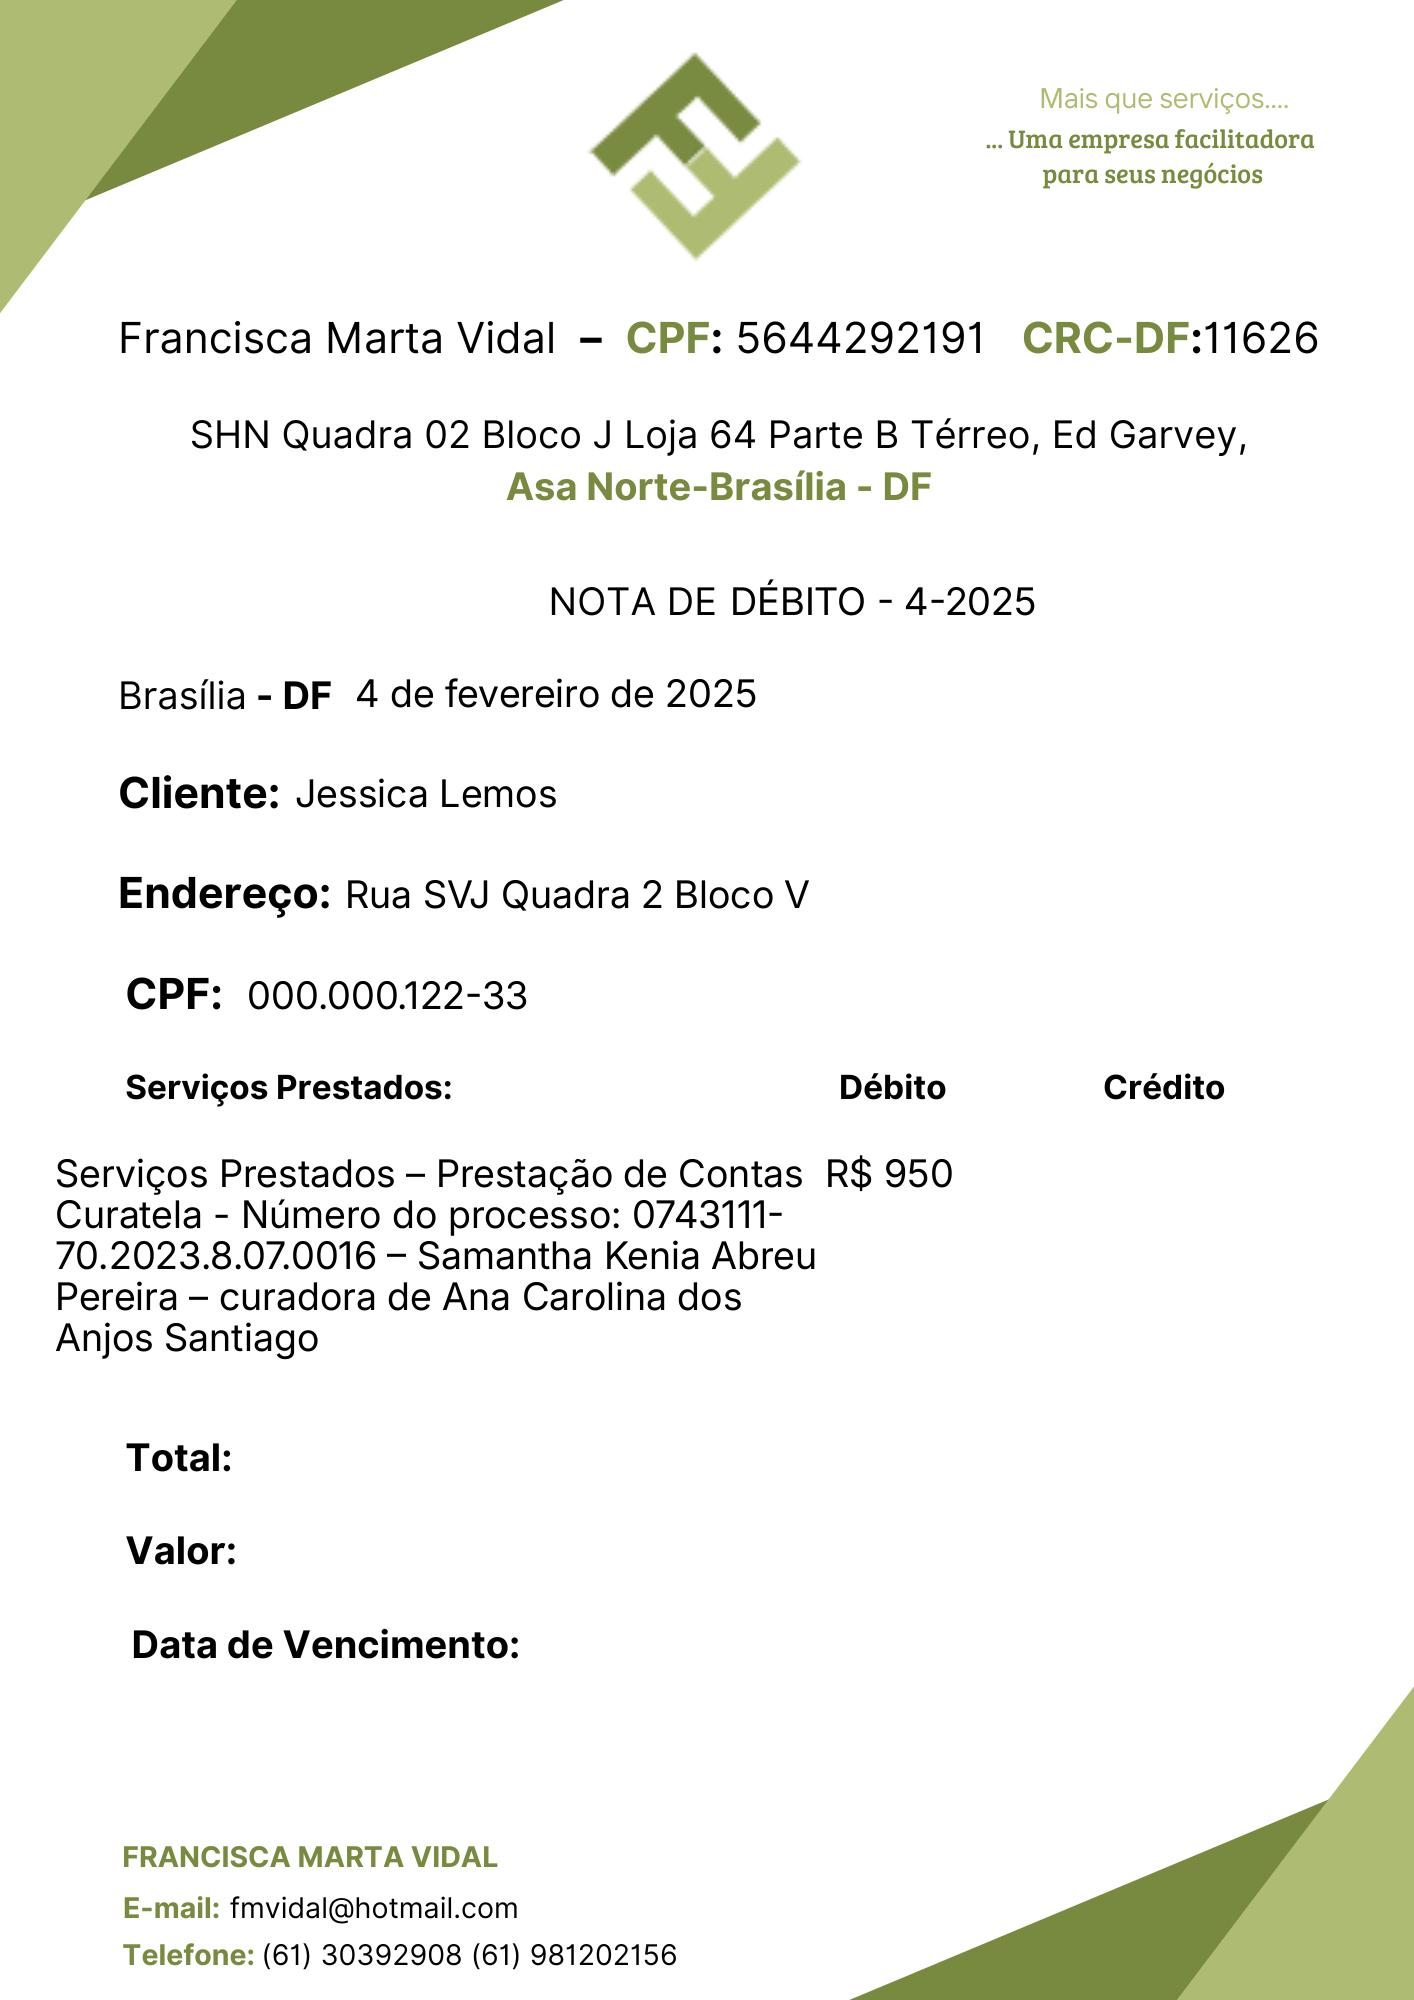
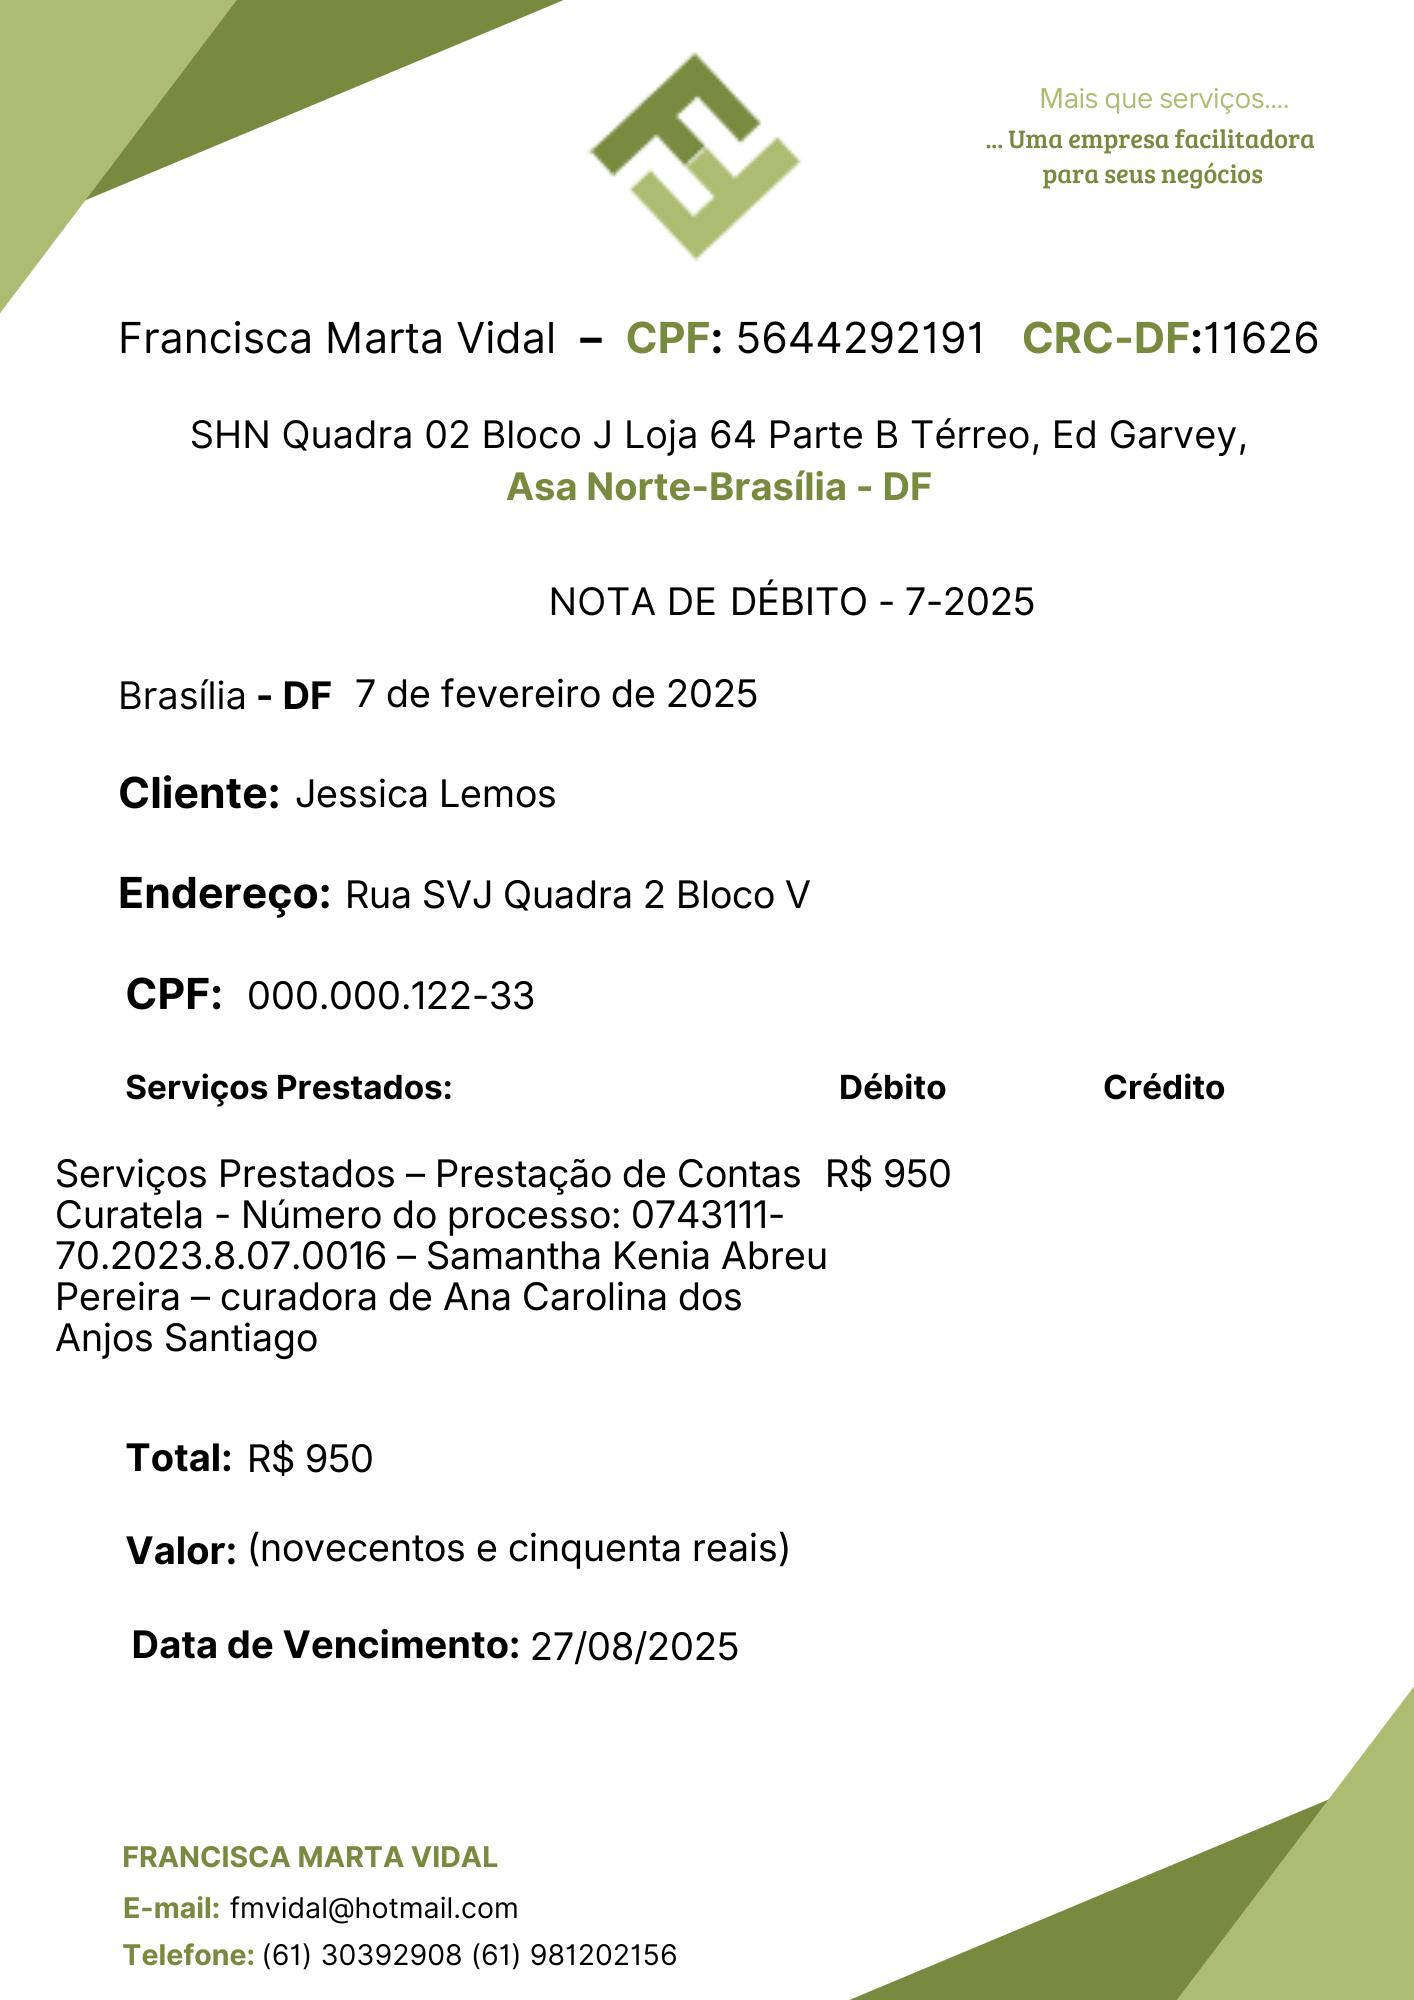
feat: add function of generate receive

diff --git a/gerador_fmv/app.py b/gerador_fmv/app.py
@@ -1,16 +1,87 @@
+import datetime
 import os
 import customtkinter as ctk
 from PIL import Image, ImageFont, ImageDraw
 
-os.environ['TK_USE_RENDERER'] = 'directwrite'
 
+
+##os.environ['TK_USE_RENDERER'] = 'directwrite'
+# Funcao Número por extenso
+def numero_por_extenso(n):
+    if n < 0 or n > 999999:
+        return "Número fora do intervalo suportado (0 a 999999)"
+
+    unidades = ["", "um", "dois", "três", "quatro", "cinco", "seis", "sete", "oito", "nove"]
+    especiais = ["dez", "onze", "doze", "treze", "quatorze", "quinze", "dezesseis", "dezessete", "dezoito", "dezenove"]
+    dezenas = ["", "dez", "vinte", "trinta", "quarenta", "cinquenta", "sessenta", "setenta", "oitenta", "noventa"]
+    centenas = ["", "cento", "duzentos", "trezentos", "quatrocentos", "quinhentos", "seiscentos", "setecentos",
+                "oitocentos", "novecentos"]
+
+    def converter_ate_999(num):
+        if num == 100:
+            return "cem"
+        elif num == 0:
+            return "zero"
+
+        partes = []
+        c, d, u = num // 100, (num % 100) // 10, num % 10
+
+        if c > 0:
+            partes.append(centenas[c])
+
+        if d == 1:  # Caso especial de 10 a 19
+            partes.append(especiais[u])
+        else:
+            if d > 0:
+                partes.append(dezenas[d])
+            if u > 0:
+                partes.append(unidades[u])
+
+        return " e ".join([p for p in partes if p])  # Remove vazios e adiciona "e" onde necessário
+
+    if n == 0:
+        return "zero"
+
+    partes_final = []
+
+    milhar, resto = divmod(n, 1000)
+
+    if milhar > 0:
+        if milhar == 1:
+            partes_final.append("mil")
+        else:
+            partes_final.append(converter_ate_999(milhar) + " mil")
+
+    if resto > 0:
+        if milhar > 0 and resto < 100:  # Adiciona "e" entre milhares e unidades/dezenas
+            partes_final.append("e")
+        partes_final.append(converter_ate_999(resto))
+
+    return " ".join(partes_final)
 # Array Campos Imutáveis
 campos = ['Nome Cliente:', 'CPF Cliente:', 'Endereço:', 'Tipo de Serviço:', 'Débito', 'Crédito', 'Data:', 'Data Vencimento:', 'CEP:']
 campo_width = 275
 campos_height = 35
 button_width = 290
 button_height = 50
-
+campos_pil = {
+    "nota":(730,578),
+    "nome":(295,770),
+    "endereco":(345,871),
+    "cpf":(247,972),
+    "tipo_servico":(55,1150),
+    "valor_debito":(825,1150),
+    "valor_credito":(1110,1150),
+    "total":(247,1435),
+    "valor_extenso":(247,1524),
+    "data_vencimento":(530,1623),
+    "data_hoje":(355,670),
+}
+meses = {
+    1: "janeiro", 2: "fevereiro", 3: "março", 4: "abril",
+    5: "maio", 6: "junho", 7: "julho", 8: "agosto",
+    9: "setembro", 10: "outubro", 11: "novembro", 12: "dezembro"
+}
 # Configurando Aparência:
 ctk.set_appearance_mode('dark')
 border_color = '#7E7E7E'
@@ -19,7 +90,7 @@ fg_color = '#535353'
 # Criar a janela Principal
 app = ctk.CTk()
 app.title('Gerador de Nota Física')
-#app.iconbitmap(bitmap=os.path.abspath('assets/imgs/png/logo.ico'))
+app.iconbitmap(bitmap='/Users/rdgr777/rdPersonal/gerador_fmv/assets/imgs/png/logo.ico')
 app.geometry('450x825+750+105')
 
 # Criar um Frame com bordas arredondadas (já que a janela não tem suporte direto para corner_radius)
@@ -28,16 +99,41 @@ frame_principal.pack_propagate(False)  # Impede que o tamanho do frame se ajuste
 frame_principal.pack()
 
 # Carregar a imagem usando Pillow
-#logo_image = Image.open("assets/imgs/png/Logo.png")
+logo_image = Image.open("/Users/rdgr777/rdPersonal/gerador_fmv/assets/imgs/png/Logo.png")
 # Criar a imagem CustomTkinter com a imagem carregada
-#logo_progama = ctk.CTkImage(light_image=logo_image, dark_image=logo_image, size=(300, 100))
-#label_logo = ctk.CTkLabel(frame_principal, image=logo_progama, text='')
-#label_logo.pack(pady=10)
+logo_progama = ctk.CTkImage(light_image=logo_image, dark_image=logo_image, size=(300, 100))
+label_logo = ctk.CTkLabel(frame_principal, image=logo_progama, text='')
+label_logo.pack(pady=10)
 
-font = ctk.CTkFont('SF Pro Display', size=16 , weight='normal')
-font_secondary = ctk.CTkFont('SF Pro Display', size=15 , weight='normal')
+font_path = 'assets/fonts/Inter_18pt-Regular.ttf'
+font_family = 'Inter'
+
+try:
+    font = ctk.CTkFont(font_family, size=16, weight='normal')
+    font_secondary = ctk.CTkFont(font_family, size=15, weight='normal')
+except:
+    font = ("Arial", 16)
+    font_secondary = ("Arial", 15)
+
 color_font = '#9ed22c'
-
+# Função para Emitir Recibo
+def criar_nota():
+    notaImg = Image.open(r"/Users/rdgr777/rdPersonal/gerador_fmv/assets/imgs/png/Nota FMV.png").convert("RGB")
+    draw = ImageDraw.Draw(notaImg)
+    # Formatando Datas
+    data_atual = datetime.datetime.now()
+    data_hoje = f"{data_atual.day} de {meses[data_atual.month]} de {data_atual.year}"
+    data_nota = f"{data_atual.day}-{data_atual.year}"
+    draw.text(campos_pil["data_hoje"], data_hoje, fill='black', font=font)
+    draw.text(campos_pil["nome"], input_nome.get(), fill='black', font=font)
+    draw.text((campos_pil["endereco"]), input_endereco.get(), fill='black', font=font)
+    draw.text(campos_pil["cpf"], input_cpf.get(), fill='black', font=font)
+    draw.text((campos_pil["tipo_servico"]), input_servico.get(), fill='black', font=font)
+    draw.text((campos_pil["valor_debito"]), combo_box_debito_credito.get(), fill='black', font=font)
+    draw.text(campos_pil["total"], valor_debito, fill='black', font=font)
+    draw.text(campos_pil["valor_extenso"], valor_extenso, fill='black', font=font)
+    draw.text(campos_pil["data_vencimento"], data_vencimento, fill='black', font=font)
+    notaImg.save(f"Nota : {nome}.jpg")
 # Função para formatar CPF
 def formatar_cpf(event):
     texto = input_cpf.get().replace(".", "").replace("-", "")
@@ -76,11 +172,9 @@ def formatar_data(event):
     elif len(texto) <= 8:
         input_data.delete(0, ctk.END)
         input_data.insert(0, f"{texto[:2]}/{texto[2:4]}/{texto[4:]}")
-
 # Campos
 label_nome = ctk.CTkLabel(frame_principal, corner_radius=8, width=campo_width, height=campos_height, text=campos[0], text_color=color_font, anchor='w', font=font)
 label_nome.pack()
-
 input_nome = ctk.CTkEntry(frame_principal, corner_radius=8, font=font_secondary, placeholder_text_color='#FFFFFF', fg_color=fg_color, border_color=border_color, border_width=2, width=campo_width, height=campos_height, placeholder_text='Insira o nome')
 input_nome.pack()
 
@@ -144,5 +238,6 @@ input_data_vencimento.pack()
 button_salvar = ctk.CTkButton(frame_principal, width=button_width, corner_radius=8, height=button_height, fg_color='transparent', text_color=color_font, text='Salvar', font=('SF Pro Display', 18), border_color=color_font, border_width=2, hover_color='#5d7528')
 button_salvar.pack(pady=25)
 
-
+app.update_idletasks()
+app.update()
 app.mainloop()

diff --git a/gerador_fmv/draw.py b/gerador_fmv/draw.py
@@ -1,11 +1,10 @@
 from PIL    import Image,ImageFont,ImageDraw
 import  datetime
-fontCorpo = ImageFont .truetype(r"/home/rdgr/rd-Personal/gerador_fmv/assets/fonts/Inter_18pt-Regular.ttf",38)
-meses = {
-    1: "janeiro", 2: "fevereiro", 3: "março", 4: "abril",
-    5: "maio", 6: "junho", 7: "julho", 8: "agosto",
-    9: "setembro", 10: "outubro", 11: "novembro", 12: "dezembro"
-}
+fontCorpo = ImageFont .truetype(r"/Users/rdgr777/rdPersonal/gerador_fmv/assets/fonts/Inter_18pt-Regular.ttf",38)
+
+
+
+
 campos_pil = {
     "nota":(730,578),
     "nome":(295,770),
@@ -14,14 +13,12 @@ campos_pil = {
     "tipo_servico":(55,1150),
     "valor_debito":(825,1150),
     "valor_credito":(1110,1150),
-    "total":(),
-    "valor_extenso":(),
-    "data_vencimento":(),
+    "total":(247,1435),
+    "valor_extenso":(247,1524),
+    "data_vencimento":(530,1623),
     "data_hoje":(355,670),
 }
 data_atual = datetime.datetime.now()
-data_nota = f"{data_atual.day}-{data_atual.year}"
-data_hoje = f"{data_atual.day} de {meses[data_atual.month]} de {data_atual.year}"
 nota_value = f"DÉBITO - {data_nota}"
 nome = "Jessica Lemos"
 endereco = "Rua SVJ Quadra 2 Bloco V"
@@ -31,15 +28,7 @@ Curatela - Número do processo: 0743111-
 70.2023.8.07.0016 – Samantha Kenia Abreu
 Pereira – curadora de Ana Carolina dos 
 Anjos Santiago"""
-valor_debito = f"R$ 950"
-notaImg = Image.open(r"/home/rdgr/rd-Personal/gerador_fmv/assets/imgs/png/Nota FMV.png").convert("RGB")
-draw = ImageDraw.Draw(notaImg)
-draw.text(campos_pil["nota"],nota_value,fill='black',font=fontCorpo)
-draw.text(campos_pil["data_hoje"],data_hoje,fill='black',font=fontCorpo)
-draw.text(campos_pil["nome"],nome,fill='black',font=fontCorpo)
-draw.text((campos_pil["endereco"]),endereco,fill='black',font=fontCorpo)
-draw.text(campos_pil["cpf"],cpf,fill='black',font=fontCorpo)
-draw.text((campos_pil["tipo_servico"]),tipo_servico,fill='black',font=fontCorpo)
-draw.text((campos_pil["valor_debito"]),valor_debito,fill='black',font=fontCorpo)
-
-notaImg.save(f"Nota : {nome}.jpg")
+valor = 950
+valor_debito = f"R$ {valor}"
+valor_extenso = f"({numero_por_extenso(valor)} reais)"
+data_vencimento = "27/08/2025"
